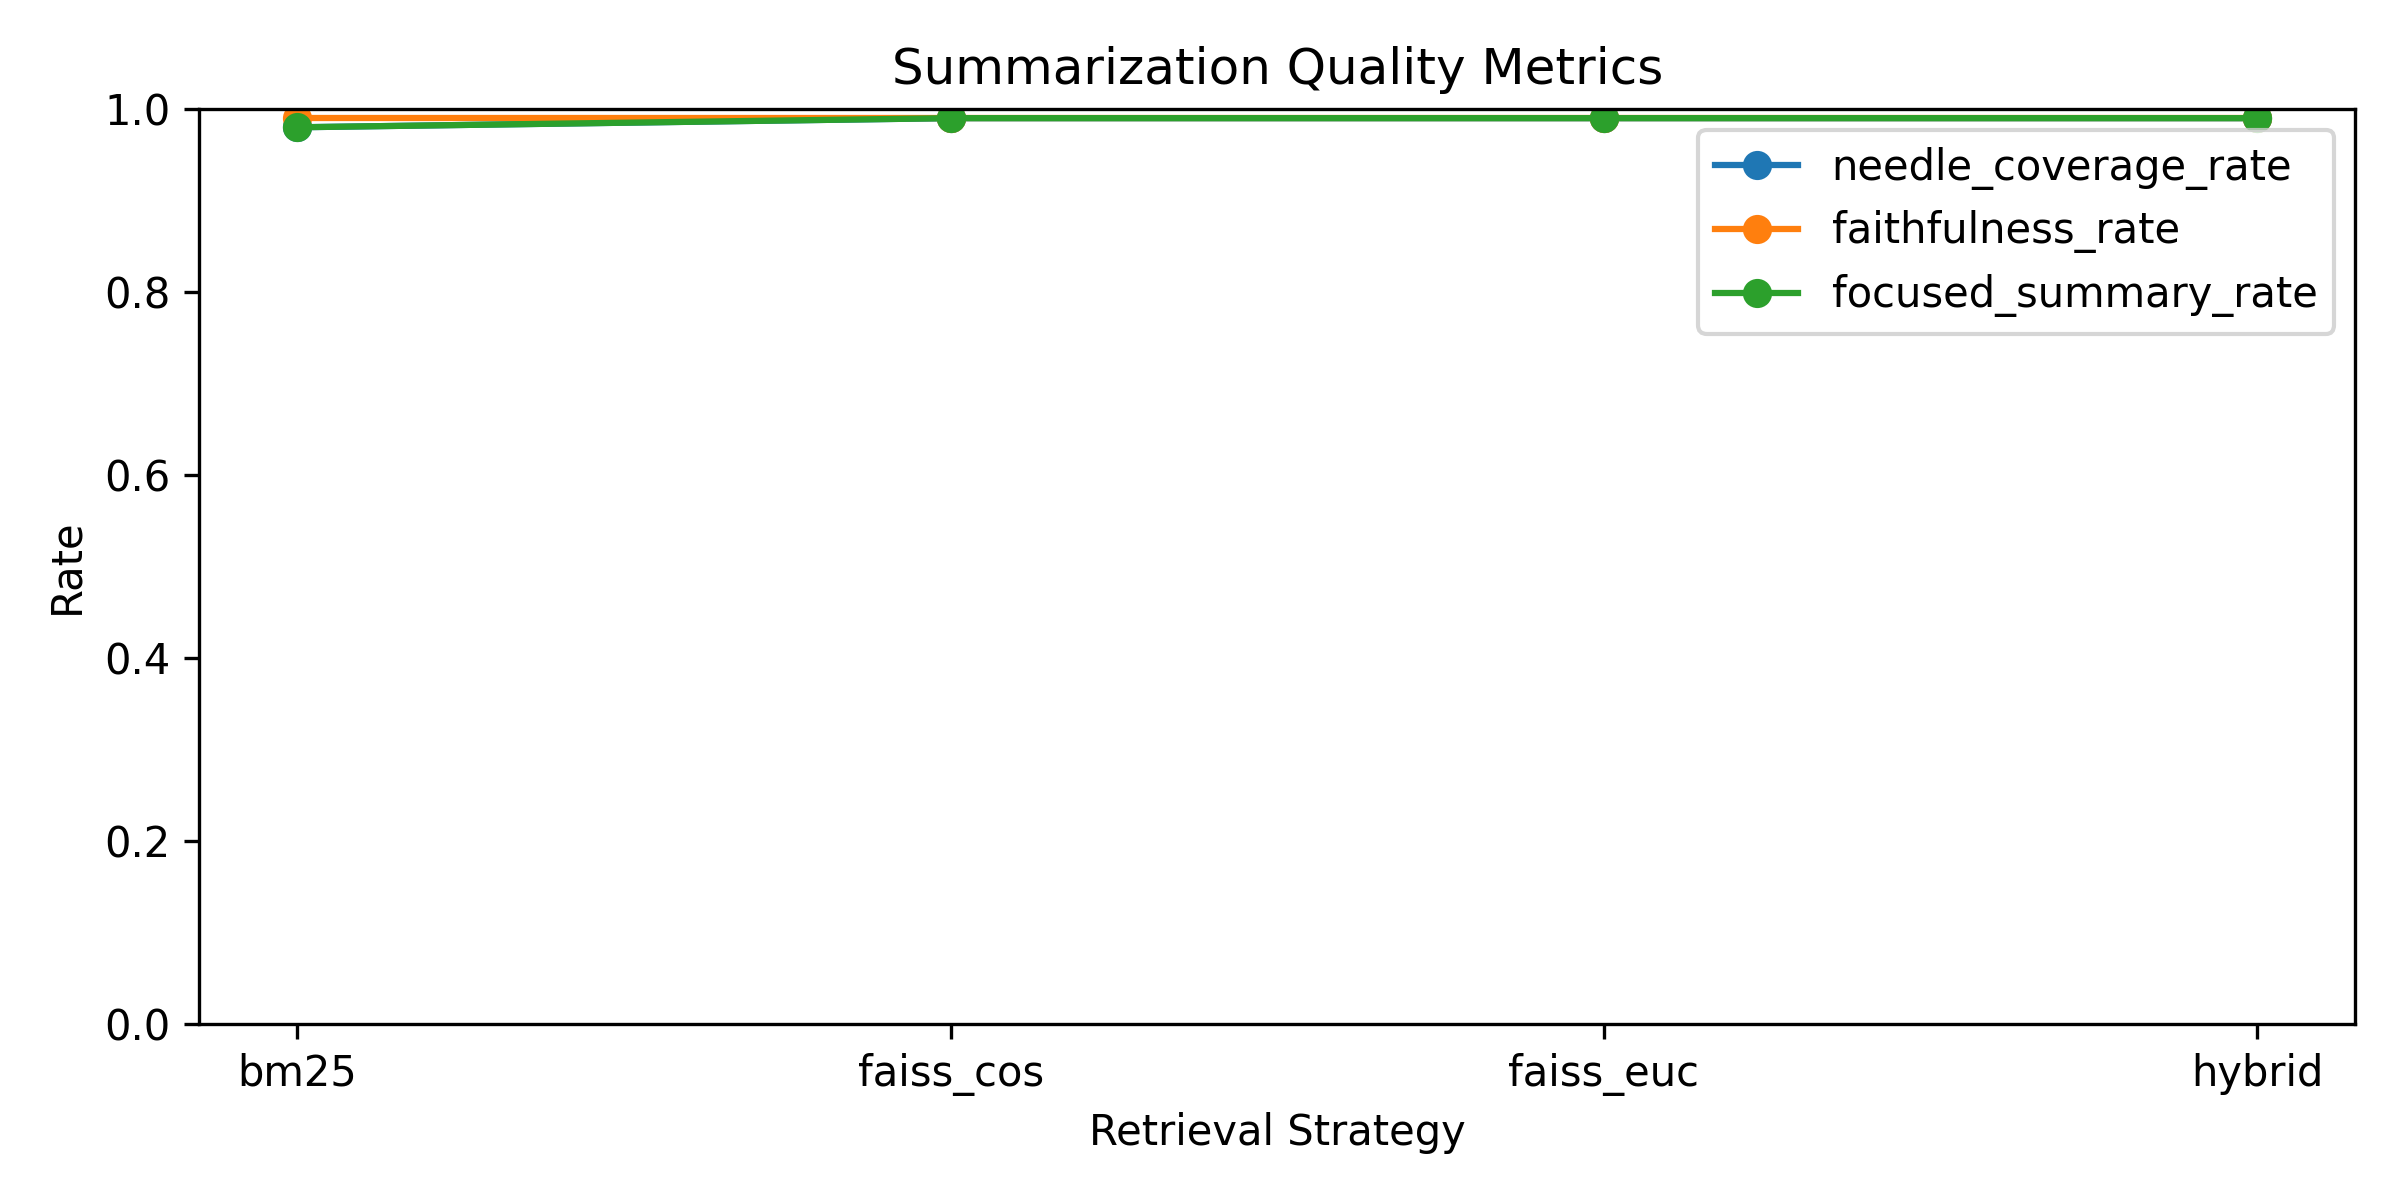
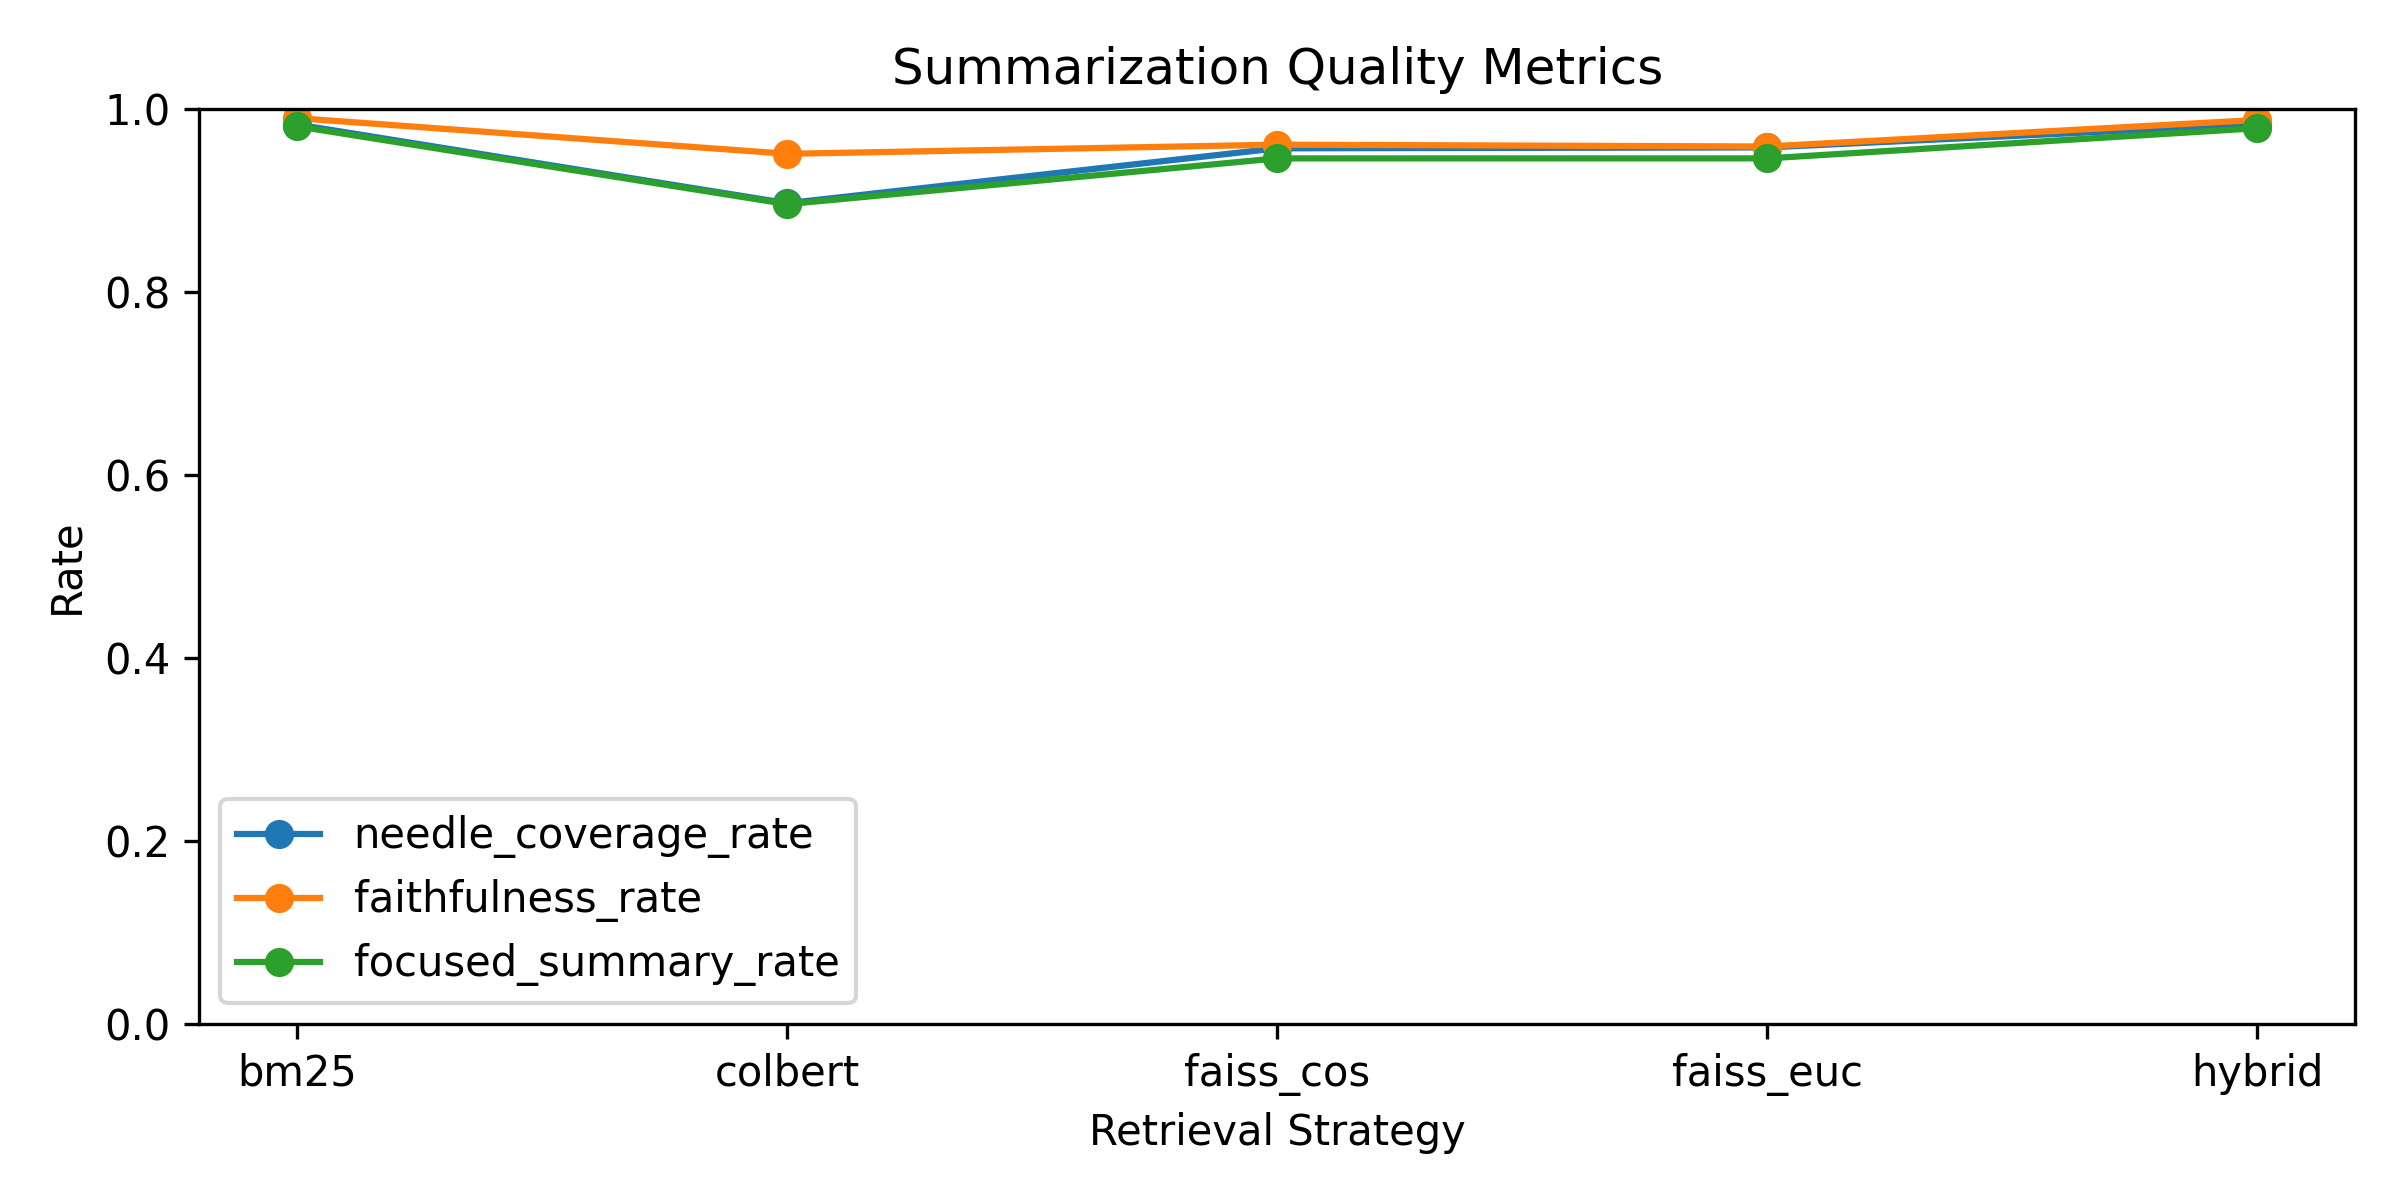
fixes when running for 1000 patients

diff --git a/src/eval/patient_level/extract_eval.py b/src/eval/patient_level/extract_eval.py
@@ -14,7 +14,8 @@ def normalize_response(resp):
     try:
         parsed = json.loads(resp)
         if isinstance(parsed, list):
-            # Deduplicate and join
+            # Deduplicate after normalization
+            parsed = [normalize_needle(p) for p in parsed]
             parsed = list(set(parsed))
             resp = " ".join(parsed)
     except:
@@ -62,16 +63,20 @@ def evaluate_extraction(responses_dict, output_file="src/eval/patient_level/extr
         df['norm_response'] = df['bedrock_response'].apply(normalize_response)
         df['norm_needle'] = df['needle'].apply(normalize_needle)
         # Compute exact match
-        df['exact_match'] = df.apply(lambda r: r['norm_needle'] == r['norm_response'], axis=1)
+        df['exact_match'] = df.apply(lambda r: r['norm_needle'] in r['norm_response'], axis=1)
         # Compute fuzzy match ratio
         df['fuzzy_score'] = df.apply(lambda r: fuzz.token_set_ratio(r['norm_needle'], r['norm_response']), axis=1)
         df['fuzzy_match_80'] = df['fuzzy_score'] >= 80  # threshold for "good enough"
+        # Compute empty extraction rate
+        df['empty_extraction'] = df['norm_response'].isin(["", "none"])
+
 
         summary_rows.append({
             'strategy': strategy,
             'num_patients': len(df),
             'overall_exact_match': df['exact_match'].mean(),
-            'overall_fuzzy_80_match': df['fuzzy_match_80'].mean()
+            'overall_fuzzy_80_match': df['fuzzy_match_80'].mean(),
+            'empty_extraction_rate': df['empty_extraction'].mean()
         })
 
         # save per-method detailed CSV
@@ -87,6 +92,7 @@ def evaluate_extraction(responses_dict, output_file="src/eval/patient_level/extr
 # Load responses for each method (can add more methods)
 responses_dict = {
     "bm25": pd.read_csv("src/bedrock_pipeline/bedrock_responses/extract/bm25_responses.csv"),
+    "colbert": pd.read_csv("src/bedrock_pipeline/bedrock_responses/extract/colbert_responses.csv"),
     "faiss_cos": pd.read_csv("src/bedrock_pipeline/bedrock_responses/extract/faiss_cos_responses.csv"),
     "faiss_euc": pd.read_csv("src/bedrock_pipeline/bedrock_responses/extract/faiss_euc_responses.csv"),
     "hybrid": pd.read_csv("src/bedrock_pipeline/bedrock_responses/extract/hybrid_responses.csv"),

diff --git a/src/bedrock_pipeline/call_bedrock.py b/src/bedrock_pipeline/call_bedrock.py
@@ -19,7 +19,8 @@ def infer_task_and_retrieval(prompt_csv_path):
 
     parts = prompt_csv_path.replace("\\", "/").split("/")
     task = parts[-2]
-    retrieval = os.path.basename(prompt_csv_path).replace("_prompts.csv", "")
+    filename = os.path.basename(prompt_csv_path)
+    retrieval = filename.split("_prompts")[0]
     return task, retrieval
 
 
@@ -44,7 +45,9 @@ def call_bedrock_and_save(prompt_csv, model_id="deepseek.v3-v1:0", max_tokens=51
 
     task, retrieval = infer_task_and_retrieval(prompt_csv)
 
-    output_csv = f"src/bedrock_pipeline/bedrock_responses/{task}/{retrieval}_responses.csv"
+    if output_csv is None:
+        output_csv = (f"src/bedrock_pipeline/bedrock_responses/{task}/{retrieval}_responses.csv")
+
     os.makedirs(os.path.dirname(output_csv), exist_ok=True)
 
     responses = []
@@ -97,7 +100,7 @@ def call_bedrock_and_save(prompt_csv, model_id="deepseek.v3-v1:0", max_tokens=51
 if __name__ == "__main__":
     parser = argparse.ArgumentParser(description="Run Bedrock on prompt CSV")
     parser.add_argument("--prompt_csv", required=True, help="Path to input prompt CSV file")
-
+    parser.add_argument("--output_csv", default=None, help="Optional explicit output CSV path")
     args = parser.parse_args()
 
     call_bedrock_and_save(
@@ -105,4 +108,6 @@ if __name__ == "__main__":
     )
 
 # Run the script with:
-# python src/bedrock_pipeline/call_bedrock.py --prompt_csv src/bedrock_pipeline/bedrock_prompts/classify/bm25_prompts.csv
+# python src/bedrock_pipeline/call_bedrock.py 
+#   --prompt_csv src/bedrock_pipeline/bedrock_prompts/classify/bm25_prompts.csv
+#   --output_csv src/bedrock_pipeline/bedrock_responses/classify/bm25_responses.csv

diff --git a/src/eval/patient_level/classify_eval.py b/src/eval/patient_level/classify_eval.py
@@ -6,7 +6,7 @@ def merge_llm_results(task, method):
     Merge LLM classification results with retrieval results.
     Args:
         task: "classify"
-        method: "bm25", "faiss_cos", "faiss_euc", "hybrid"
+        method: "bm25", "colbert", "faiss_cos", "faiss_euc", "hybrid"
 
     Returns:
         None
@@ -18,11 +18,12 @@ def merge_llm_results(task, method):
     retrieval = pd.read_csv(retrieval_file)
     responses = pd.read_csv(response_file)
 
-    # merge on "needle"
+    # merge on SUBJECT_ID and needle
     merged = retrieval.merge(
-        responses[["needle", "bedrock_response"]],
-        on="needle",
-        how="left"
+        responses[["SUBJECT_ID", "needle", "bedrock_response"]],
+        on=["SUBJECT_ID", "needle"],
+        how="left",
+        validate="one_to_one"
     )
 
     # classify correctness automatically
@@ -36,7 +37,7 @@ def merge_llm_results(task, method):
 
 
 # can add faiss_euc, and hybrid
-methods = ["bm25", "faiss_cos", "faiss_euc", "hybrid"]
+methods = ["bm25", "colbert", "faiss_cos", "faiss_euc", "hybrid"]
 task = "classify"
 for method in methods:
     merge_llm_results(task, method)

diff --git a/src/results_patient_level/visualize_retrieval.py b/src/results_patient_level/visualize_retrieval.py
@@ -74,7 +74,7 @@ def plot_colbert_results(csv_file):
 
     plot = sns.scatterplot(
         data=df, 
-        x="num_chunks", 
+        x="num_passages", 
         y="found", 
         hue="found", 
         palette={True: "#2ecc71", False: "#e74c3c"},
@@ -87,7 +87,7 @@ def plot_colbert_results(csv_file):
     df['found_int'] = df['found'].astype(int)
     sns.lineplot(
         data=df, 
-        x="num_chunks", 
+        x="num_passages", 
         y="found_int", 
         color="#3498db", 
         label="Success Rate Trend"
@@ -100,14 +100,13 @@ def plot_colbert_results(csv_file):
     plt.legend(title="Status", bbox_to_anchor=(1.05, 1), loc='upper left')
     
     plt.tight_layout()
-    plt.savefig("haystack_performance.png")
     plt.savefig(os.path.join(SAVE_DIR, "colbert_retrieval.png"), dpi=300)
     plt.close()
     print("Saved colbert retrieval plot")
 
 
 if __name__ == "__main__":
-    methods = ["bm25", "faiss_cos", "faiss_euc", "hybrid"]
+    methods = ["bm25", "colbert", "faiss_cos", "faiss_euc", "hybrid"]
     method_dfs = {method: load_retrieval_csv(method) for method in methods}
 
     # Coverage plot

diff --git a/src/results_patient_level/eval_table.py b/src/results_patient_level/eval_table.py
@@ -1,0 +1,15 @@
+import pandas as pd
+import dataframe_image as dfi
+
+
+df = pd.read_csv("src/eval/patient_level/classify/all_methods_llm_eval.csv")
+df = df[["strategy", "accuracy"]]
+dfi.export(df, "src/results_patient_level/llm_visualizations/classify_results.png", table_conversion='matplotlib')
+
+df2 = pd.read_csv("src/eval/patient_level/extract/all_methods_llm_eval.csv")
+df2 = df2[["strategy", "overall_exact_match", "overall_fuzzy_80_match", "empty_extraction_rate"]]
+dfi.export(df2, "src/results_patient_level/llm_visualizations/extract_results.png", table_conversion='matplotlib')
+
+df3 = pd.read_csv("src/eval/patient_level/summarize/all_methods_llm_eval.csv")
+df3 = df3[["strategy", "needle_coverage_rate", "faithfulness_rate", "focused_summary_rate"]]
+dfi.export(df3, "src/results_patient_level/llm_visualizations/summarize_results.png", table_conversion='matplotlib')

diff --git a/src/retrieval_patient_level/colbert_retrieval.py b/src/retrieval_patient_level/colbert_retrieval.py
@@ -78,8 +78,7 @@ def run_colbert_retrieval(input_csv, output_csv, k=5, chunk_size=256):
             "needle": needle,
             "needle_rank": needle_rank,
             "found": found,
-            "num_chunks": num_chunks,
-            "num_passages": len(top_passages),
+            "num_passages": num_chunks,
             "haystack_len_chars": len(haystack),
             "top_passages": top_passages
         })

diff --git a/src/eval/patient_level/summarize_eval.py b/src/eval/patient_level/summarize_eval.py
@@ -66,7 +66,7 @@ def evaluate_summarize_method(method, input_path, output_dir):
 
 # Run all methods
 def evaluate_all_methods():
-    methods = ["bm25", "faiss_cos", "faiss_euc", "hybrid"]
+    methods = ["bm25", "colbert", "faiss_cos", "faiss_euc", "hybrid"]
     summaries = []
 
     for method in methods:

diff --git a/README.md b/README.md
@@ -249,7 +249,7 @@ python src/bedrock_pipeline/prompt_generation.py \
 
 The scipt expects the prompt CSV path to follow this structure:
 ```php-template
-src/bedrock_pipeline/bedrock_prompts/<task>/<retrieval_method>_prompts.csv
+src/bedrock_pipeline/bedrock_prompts/<task>/<retrieval_method>_prompts*.csv
 ```
 From this path, the script automatically infers the task (classify, extract, or summarize) and the retrieval method (bm25, faiss_cos, faiss_euc, or hybrid). 
 
@@ -263,6 +263,7 @@ python src/bedrock_pipeline/call_bedrock.py \
 
 
 ### STEP 7: Evaluate Bedrock LLM
+(TODO: add patient-level maybe input/output csv)
 #### 1. For classification methods:
 ```bash
 python src/eval/classify_llm_eval.py
